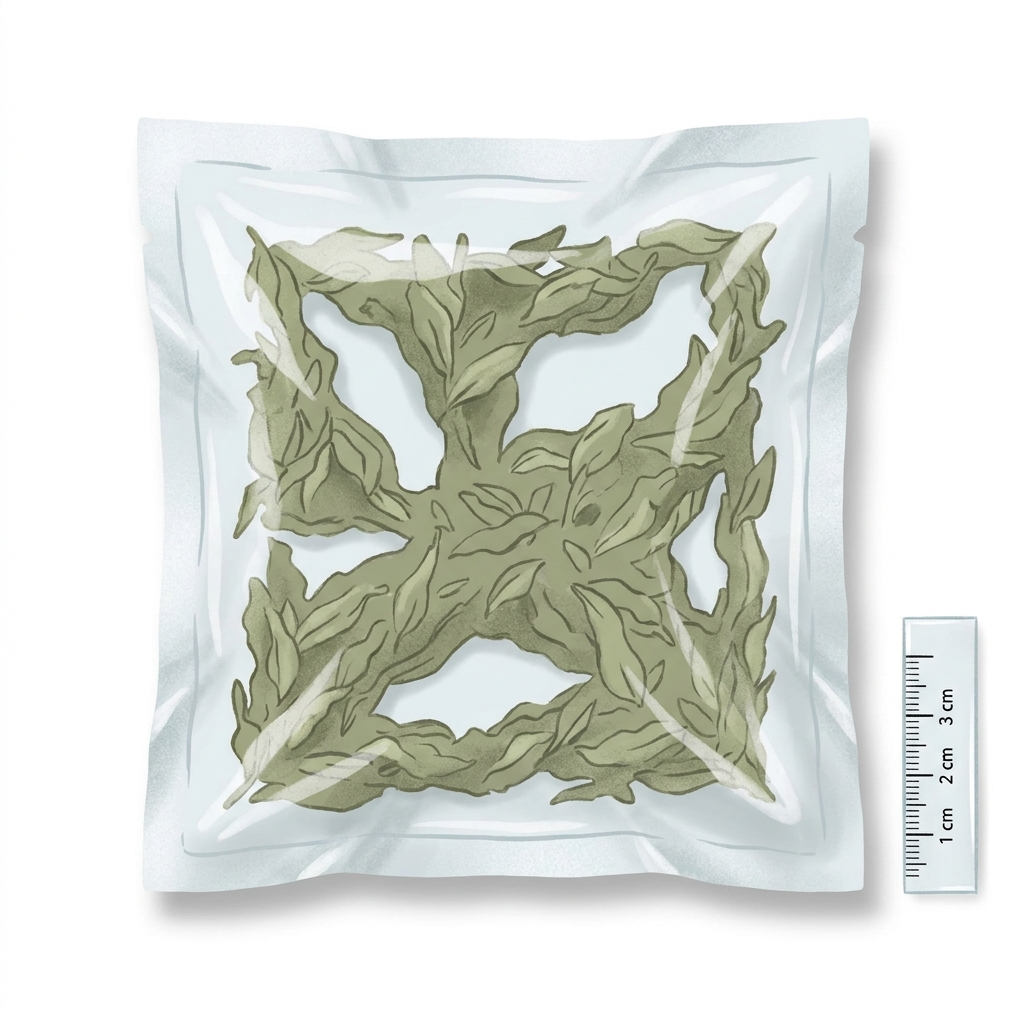
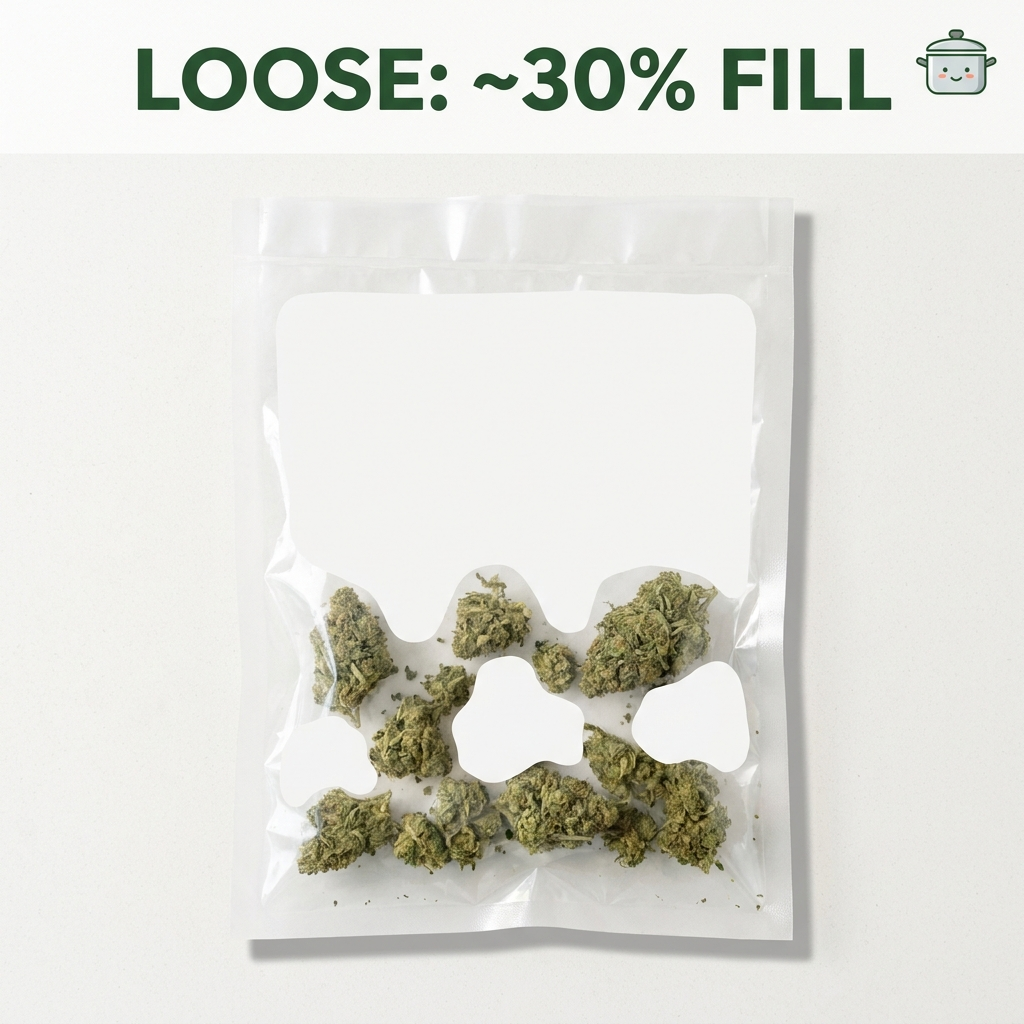
fix(wizard): make loose vs medium pack visuals unambiguous
The previous loose + medium pack images both showed a bag with visible
air gaps and were too similar to differentiate at a glance — a
first-timer couldn't reliably tell them apart, which defeats the
purpose of the visual.

Iterated the prompts to force a clear visual gradient between the
three packing states:
- Loose: 30% fill — material in a few loose clumps, 70% empty
- Medium: 85% fill — nearly continuous single layer, tiny gaps
- Tight: 100% fill — flat single layer, no gaps

Each image now carries a numeric "X% FILL" overlay so the difference
is unambiguous even at thumbnail size.

Captions in the wizard were also updated to reference the % so the
visual matches the text.

Tight image was already correct (the risk-test version) and was not
regenerated.

Tests: 807/807. typecheck clean.

diff --git a/src/renderer/src/tabs/FirstTimerGuide.tsx b/src/renderer/src/tabs/FirstTimerGuide.tsx
@@ -1104,7 +1104,7 @@ const PACK_OPTIONS: readonly PrepOption[] = [
     label: 'Loose',
     image: packLoose,
     caption:
-      'Air gaps visible. Bag is puffy. Heat reaches unevenly — expect hot spots.',
+      'About 30% fill — most of the bag is empty. Material sits in a few loose clumps with big gaps.',
     why: 'Avoid this if you can. The air pockets are where decarbing goes uneven.',
   },
   {
@@ -1112,16 +1112,16 @@ const PACK_OPTIONS: readonly PrepOption[] = [
     label: 'Medium',
     image: packMedium,
     caption:
-      'A few gaps, mostly filled. Reasonable default for a first-timer.',
-    why: 'Spread the material into a single layer. Press flat with a spatula.',
+      'About 85% fill — nearly continuous single layer with only tiny gaps.',
+    why: 'Reasonable default. Press flat with a spatula before sealing.',
   },
   {
     id: 'tight',
     label: 'Tight',
     image: packTight,
     caption:
-      'No visible air gaps, single flat layer. Best for even conversion.',
-    why: 'Press flat with a spatula before sealing. Aim for this if you can.',
+      'About 100% fill, single flat layer. No visible air gaps.',
+    why: 'Best for even conversion. Press flat with a spatula before sealing.',
   },
 ]
 